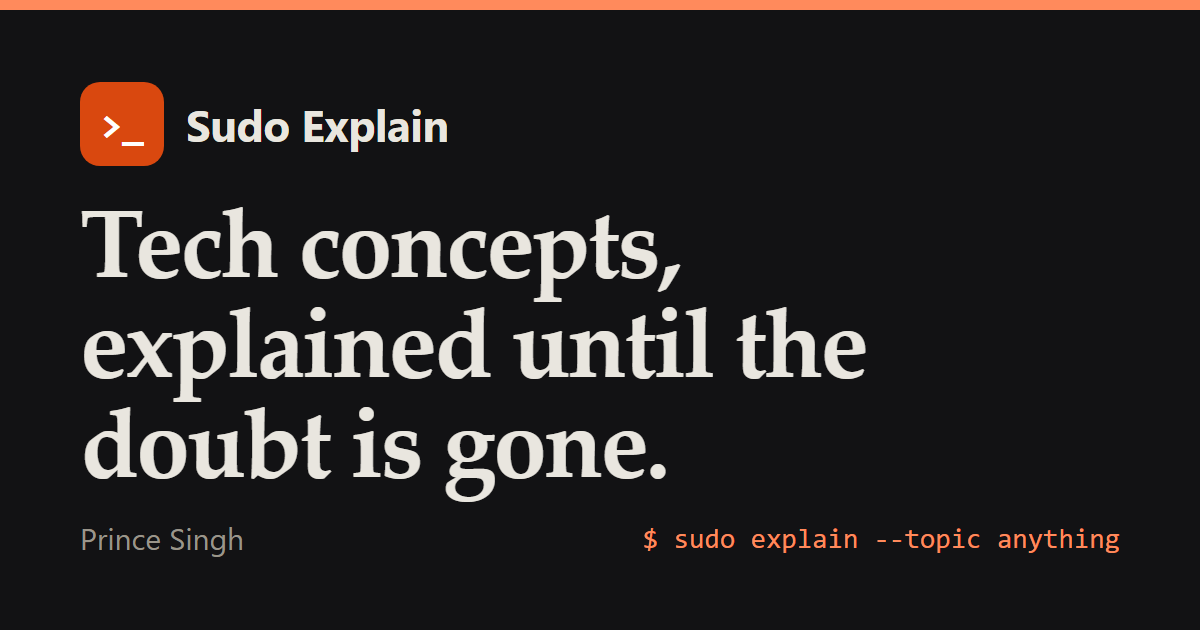
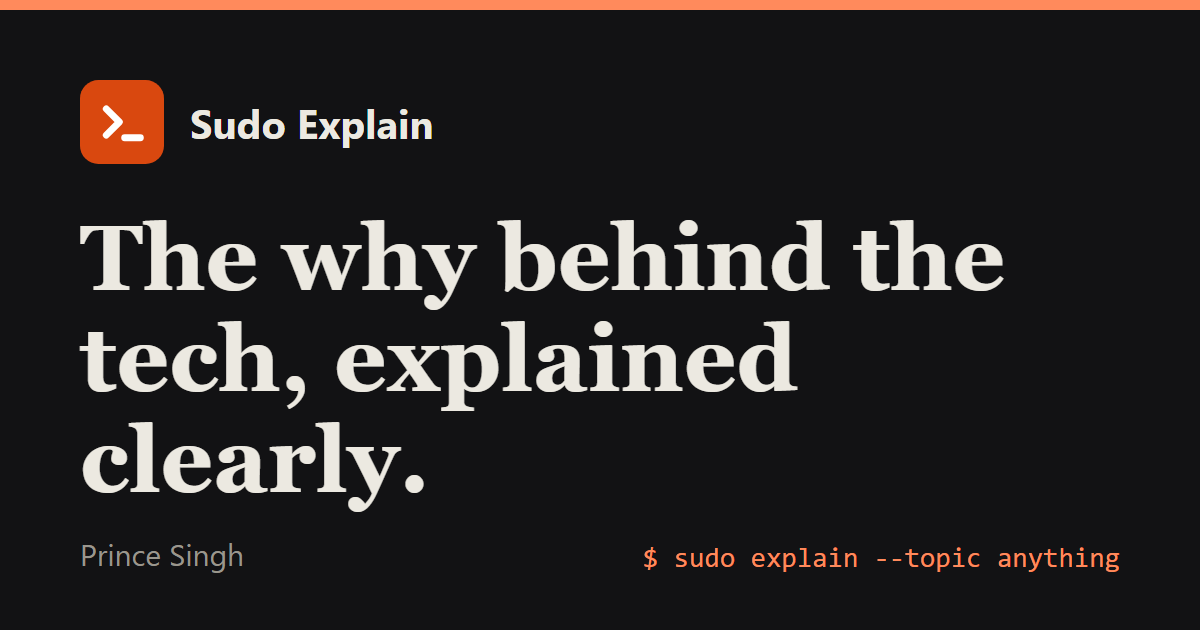
posts: publish idempotency-key-double-charge; regenerate home og.png and fix card title quotes
Adds the idempotency key post with its share card, a back-link from the
connection pool post, pending-links rows, and a home card generator in
og-images.mjs that also strips quotes from front-matter titles.

diff --git a/content/posts/idempotency-key-double-charge.md b/content/posts/idempotency-key-double-charge.md
@@ -1,14 +1,13 @@
 ---
-title: Idempotency keys: stop retries from charging twice
-date: 2026-11-01
-description: How a timeout and a harmless-looking retry charge a customer twice, how to find the duplicate, and how idempotency keys make retries safe.
+title: "Idempotency key: stop a retry from charging twice"
+date: 2026-11-07
+description: A timeout and a retry can charge a customer twice. See how to find the duplicate and how an idempotency key makes a retry safe.
 tags: apis, payments
-draft: true
 ---
 
 ## The question
 
-A customer clicks "Pay" once. Their card is charged twice. Support finds two identical requests in the logs, a few seconds apart, and the payment provider shows two charges. Nobody pressed the button twice, and the code does not loop.
+A customer clicks "Pay" once, but their card is charged twice. In the logs, support finds the same payment request two times, a few seconds apart.
 
 > I clicked once. Why did the server do it twice?
 
@@ -41,7 +40,9 @@ The caller can only guess. If it does nothing, a payment may never be made. If i
 - "Set the balance to 100": running it twice gives the same result. This is **idempotent**.
 - "Add 100 to the balance": running it twice adds 200. This is **not** idempotent.
 
-**Idempotent** means doing it many times has the same effect as doing it once. In HTTP, `GET`, `PUT` and `DELETE` are meant to be idempotent, and so are `HEAD` and `OPTIONS`. `POST`, which usually creates something, is not. "Meant to be" is a promise the server code must keep.
+**Idempotent** means doing it many times has the same effect as doing it once.
+
+Reading a page (`GET`), setting a value (`PUT`) and deleting something (`DELETE`) are safe to repeat. Creating something, such as "charge $50", is usually a `POST`, and it is **not**: each call can create another charge.
 
 ## The failure: the lost reply
 
@@ -63,24 +64,24 @@ The server did exactly what it was asked, twice. Nothing is broken in the usual 
 
 ## Where the second request comes from
 
-The retry is often not in your code:
+The retry is often not in your code. Any of these can send it:
 
-- **The client or app** retries after a timeout, as good libraries do.
-- **A proxy or load balancer** (a server that sits in front and forwards requests) retries silently. Nginx can pass a failed request to another upstream server, though for `POST` only when configured to. Envoy and many cloud gateways have retry rules. Your code never sees it.
-- **A message queue** delivers **at least once**. If a consumer (the program reading messages) crashes before it **acknowledges** a message, meaning it tells the queue "done", the broker sends the message again.
-- **The user** double-clicks, refreshes after a slow page, or taps "Pay" again. Disabling the button after the first click helps, but it does not replace a server-side check.
+- **The app or client.** After a timeout, many HTTP libraries try again on their own.
+- **A server in the middle.** A proxy or load balancer, which forwards requests to your server, can resend a request when the first try fails. Your code never sees it. Nginx, for example, does not retry a `POST` unless you configure it to.
+- **A message queue.** A queue hands a message to a program that does the work. If that program crashes before it says "done", the queue sends the same message again. This is called **at-least-once delivery**.
+- **The user.** They click again because the page is slow. Disabling the button after the first click helps, but the server must still protect itself.
 
 ## How to diagnose it
 
-**1. Find the two requests.** Search the logs by order ID or user. Two requests with the same payload and a short gap point to a retry.
+**1. Find the two requests.** Search your logs for the order ID or the user. If you see the same request twice, a few seconds apart, it is probably a retry.
 
-**2. Compare timings.** Look at how long the server took for request one. If it finished after the client's timeout, the client had already given up. That is the smoking gun.
+**2. Compare the timings.** Check how long your server took to answer the first request. Say the client waits 10 seconds, but your server needed 12. The client gave up at second 10 and sent the request again, even though the first one finished later. That is the proof.
 
-**3. Look just before the second one.** A timeout, a 502/503/504, a connection reset, a deploy or a slow database spike usually sits right before it. That is the event that made someone retry.
+**3. Look at what happened just before the second request.** Something usually went wrong right before it: a timeout, an error, or a slow moment in the database. A slow query ([find a missing index](/posts/slow-query-missing-index/)) or a [full connection pool](/posts/connection-pool-exhausted/) can cause this. That slowness is what made someone retry.
 
-**4. Check the layers in between.** Look at the retry settings of every proxy, gateway and HTTP client between the user and your service. Use a request ID to see whether the second request came from the same client or was created in between.
+**4. Find who sent it.** The retry may not come from your code. Check every place between the user and your server, such as the app, a proxy or a load balancer, and see which one has retry turned on. Each request has an ID in the logs, so you can follow it step by step.
 
-**5. Check the delivery guarantee.** If the work comes from a queue, assume duplicates will happen. "At least once" is the normal setting. Also check the payment provider's dashboard to see whether an idempotency key was sent.
+**5. Check if a queue sent it twice.** If the payment started from a message queue, a repeat is normal, because queues deliver a message at least once. Then open the payment provider's dashboard and compare the two charges. If they have different idempotency keys (the unique ID we add below), the provider could not tell they were the same payment.
 
 ## Fix: an idempotency key
 
@@ -97,32 +98,35 @@ Store the keys in a table with a **unique** constraint (a rule the database enfo
 
 ```sql
 CREATE TABLE idempotency_keys (
-    user_id      bigint NOT NULL,
-    idem_key     text   NOT NULL,
-    request_hash text   NOT NULL,        -- fingerprint of the request body
-    status       text   NOT NULL,        -- 'in_progress' or 'done'
-    response     text,
-    created_at   timestamptz NOT NULL DEFAULT now(),
+    user_id  bigint NOT NULL,
+    idem_key text   NOT NULL,
+    -- 'in_progress' or 'done'
+    status   text   NOT NULL,
+    response text,
     PRIMARY KEY (user_id, idem_key)
 );
 ```
 
-The order of steps matters:
+The primary key is the unique rule: one row per user and key. The server follows these steps for every request:
 
 ```pseudocode
 on request with key K:
-    try INSERT (user, K, hash(body), 'in_progress')
-    if the insert hit the unique constraint:             # seen before
-        row = SELECT where user = user and key = K
-        if row.request_hash != hash(body):  reject (4xx: same key, different request)
-        if row.status == 'done':            return row.response
-        else:                               return 409 "still being processed"
+    # a second row with the same key is rejected
+    try to INSERT K with status 'in_progress'
 
-    try:
-        result = chargeCard(..., idempotencyKey = K)     # do the work once
-    on failure:
-        DELETE the key row (so a retry can try again), then rethrow
-    UPDATE keys SET status = 'done', response = result WHERE key = K
+    if the insert was rejected (K was seen before):
+        if K is 'done':
+            return the saved response
+        return "still being processed"
+
+    # the key is new, so do the work once
+    result = charge the card, passing K on
+
+    if the charge failed:
+        # remove K so a retry can try again
+        DELETE K and report the error
+
+    save result and mark K as 'done'
     return result
 ```
 
@@ -133,41 +137,29 @@ caption: Figure 2. The key table stops the second charge.
 Retry with same key -> Unique insert fails -> Stored result returned -> No second charge
 ```
 
-Notice two details. The key is **recorded before the work starts**, so two simultaneous requests cannot both pass. That is the check-then-act race from [the race conditions post](/posts/race-condition-check-then-act/), and a unique constraint solves it.
+Two details matter here. First, the key is **saved before the work starts**. Say two requests arrive at the same moment. If each one only checks "have I seen this key?", both see "no", and both charge the card. This problem is called the check-then-act race. Saving first, with a unique rule, fixes it: the database lets only one request save the key, and the other is rejected.
 
-The **same key is passed on** to the payment provider, since many providers, Stripe among them, accept an idempotency key and deduplicate on their side too. That also makes recovery safe. If the server crashes after charging but before marking the key done, the row stays in progress until its timeout. A later retry then reaches the provider with the same key, and the provider does not charge again.
+Second, the **same key is passed on** to the payment provider. Many providers, Stripe among them, accept an idempotency key and ignore a repeat. This helps when the server crashes after charging but before marking the key `done`. The row stays `in_progress` until its timeout. A later retry then reaches the provider with the same key, and the provider does not charge again.
+
+Keep each key for as long as a client might still retry, often a day or more. If you delete it after an hour, a retry that arrives later looks like a new action. Providers delete keys too (Stripe may after 24 hours), so your own table must keep them longer.
+
+The key protects only the charge. Anything else the action does, such as sending a confirmation email, can still happen twice. Protect each of those the same way.
 
 ## Other ways to get the same safety
 
-- **Use a natural unique ID.** An order has an ID. A unique constraint on `payments(order_id)` makes a second payment for the same order impossible, with no extra table.
-- **Make the operation "set", not "add".** "Set status to PAID" is safe to repeat. "Increase the paid amount" is not.
-- **Deduplicate in consumers.** Record the message IDs you have processed, and skip any you have seen. [The poison message post](/posts/poison-message-dead-letter-queue/) covers queues in more depth.
+- **Use an ID you already have.** Every order has an ID. Make the order ID unique in the `payments` table, and the database refuses a second payment for the same order. No extra table is needed.
+- **Use "set", not "add".** "Set status to PAID" is safe to repeat. "Add $50 to the paid amount" is not.
+- **Skip messages you have already handled.** If your program reads from a queue, save the ID of each message it finishes, and ignore a message whose ID is already saved. Queues, and the messages that keep failing in them, are a topic of their own.
 
 ## When the fix goes wrong
 
-A key table is easy to add and easy to get subtly wrong. Three mistakes matter most.
+A key table is easy to add and easy to get wrong. Two mistakes cause most of the trouble.
 
-**1. Recording the key after the work.** The natural order feels logical: look the key up, charge the card, then save the key. The check is "have I seen this key?", and the save is "now I have".
+**1. A new key for every attempt.** Some retry code makes a fresh random ID each time it sends. Then every attempt looks like a new action, and the table never sees a repeat. Attempt 1 charges $50, the reply is lost, and attempt 2 arrives with a different key. The server charges again. The key must stay the same on every retry of one action.
 
-The trouble is the gap between the charge and the save. Say the server charges $50 and crashes before it saves the key. The retry arrives, finds no key, and charges another $50. The same gap exists with no crash at all. Two copies of one request that arrive together both look the key up, both find nothing, and both charge. This is the check-then-act race from the earlier section.
+**2. A row stuck at "in progress".** Saving the key first has a cost. If the server crashes after saving the row, it says `in_progress` forever. Every retry gets "still being processed", and the user can never finish. The usual fix is a timeout: after some time, a retry may take over the row. But a short timeout is dangerous. Say a payment can take 40 seconds and the timeout is 30. At second 31 a retry takes over while the first request is still working, and both charge.
 
-**What to do instead.** Insert the key row first, with status `in_progress`, and rely on the unique constraint. Only one request can insert it. The loser sees the row and does not charge. Mark the row `done` after the work.
-
-**2. A key that is generated per attempt.** A common version: the retry code builds a fresh UUID each time it sends. Every attempt looks like a new action, so the table never sees a repeat. Attempt 1 charges $50, the reply is lost, and attempt 2 arrives with a different key. The server charges again.
-
-**What to do instead.** The key belongs to the action, not the attempt. Create it once, when the user starts the action, such as when the checkout page loads. Keep it, and send the same value on every retry of that action. Only a new action, such as a second purchase, gets a new key.
-
-**3. A stuck "in progress" row, and the timeout that fixes it.** Record-first has a price. If the server crashes after inserting the row, the row says `in_progress` forever. Every retry then gets "still being processed", and the user can never finish.
-
-The usual fix is a timeout: after some time, an `in_progress` row may be taken over. But a timeout that is too short is dangerous. Suppose a payment can take up to 40 seconds, and the timeout is 30. At second 31 a retry takes over the row while the first request is still working. Now two requests charge at once.
-
-**What to do instead.** Set the timeout longer than the slowest normal run of the work. Also pass the same key on to the payment provider, as shown earlier. Then even if two requests do run, the provider charges once.
-
-The smaller ones:
-
-- **Keys that expire too early.** If you keep keys for an hour and a client retries after a day, the key is gone. Keep them at least as long as a client may retry, often a day or more. Providers expire keys too (Stripe may prune them after 24 hours), so your own table must cover longer retry windows.
-- **Other side effects.** A **side effect** is anything the action does besides its main result. The payment is safe now, but the confirmation email may still go out twice. Each side effect needs its own protection.
-- **One key shared between users.** Scope the key by user, as the primary key above does, or one user's key can block another's request.
+**What to do instead.** Set the timeout longer than the slowest normal run. Also pass the same key to the payment provider, as shown earlier. Then even if two requests run, the provider charges once.
 
 ## Which should you use?
 

diff --git a/docs/pending-links.md b/docs/pending-links.md
@@ -5,9 +5,10 @@ A live post must never link to a draft, because the link would be dead. Where a 
 | Live post | Plain text to turn into a link | Link to add | Waiting for |
 |---|---|---|---|
 | `slow-query-missing-index` | "GIN index" in Fix 3, the sentence about `LIKE '%smith'` | `/posts/like-wildcard-search-gin-index/` | `like-wildcard-search-gin-index` |
-| `connection-pool-exhausted` | "idempotency key" in Failure 2, caution 2 | `/posts/idempotency-key-double-charge/` | `idempotency-key-double-charge` |
 | `connection-pool-exhausted` | "When the fix goes wrong", pitfall 2 (retrying on pool timeout): a link was removed | `/posts/cascading-failures-circuit-breaker/` | `cascading-failures-circuit-breaker` |
 | `java-memory-leak` | "Which should you use?", last paragraph: "A queue that grows without limit is a close cousin of this leak" | `/posts/unbounded-thread-pool-queue/` | `unbounded-thread-pool-queue` |
 | `java-memory-leak` | "Another option: weak references, with care": add "The weak references post covers this in detail" | `/posts/java-weak-vs-strong-references/` | `java-weak-vs-strong-references` |
+| `idempotency-key-double-charge` | "check-then-act race" in "Fix: an idempotency key", the paragraph after the pseudocode | `/posts/race-condition-check-then-act/` | `race-condition-check-then-act` |
+| `idempotency-key-double-charge` | "Other ways to get the same safety", last bullet: "Queues, and the messages that keep failing in them" | `/posts/poison-message-dead-letter-queue/` | `poison-message-dead-letter-queue` |
 
 Also: when a draft is published, link back to it from 1 or 2 older posts, and make sure it links to 2 or 3 related posts.

diff --git a/content/posts/connection-pool-exhausted.md b/content/posts/connection-pool-exhausted.md
@@ -155,7 +155,7 @@ This looks right, but `@Transactional` does nothing here, and Spring does not wa
 
 A call from inside the same class goes straight to the method. The stand-in is skipped, so no transaction opens. The two saves are no longer all-or-nothing: if the second one fails, the first one stays. The fix is to put `saveOrderAndPayment` in a separate class, like `orderWriter` above, so the call comes from outside and goes through the stand-in.
 
-**2. Charging first changes what can go wrong.** If the save fails after the charge, the customer paid and there is no order. Protect against that with an idempotency key, a unique ID that lets the server recognise and ignore a repeated request, and a way to refund.
+**2. Charging first changes what can go wrong.** If the save fails after the charge, the customer paid and there is no order. Protect against that with an [idempotency key](/posts/idempotency-key-double-charge/), a unique ID that lets the server recognise and ignore a repeated request, and a way to refund.
 
 The principle: **a connection should be held only while the database is actually working**. Never across a network call, a file upload or a sleep.
 
